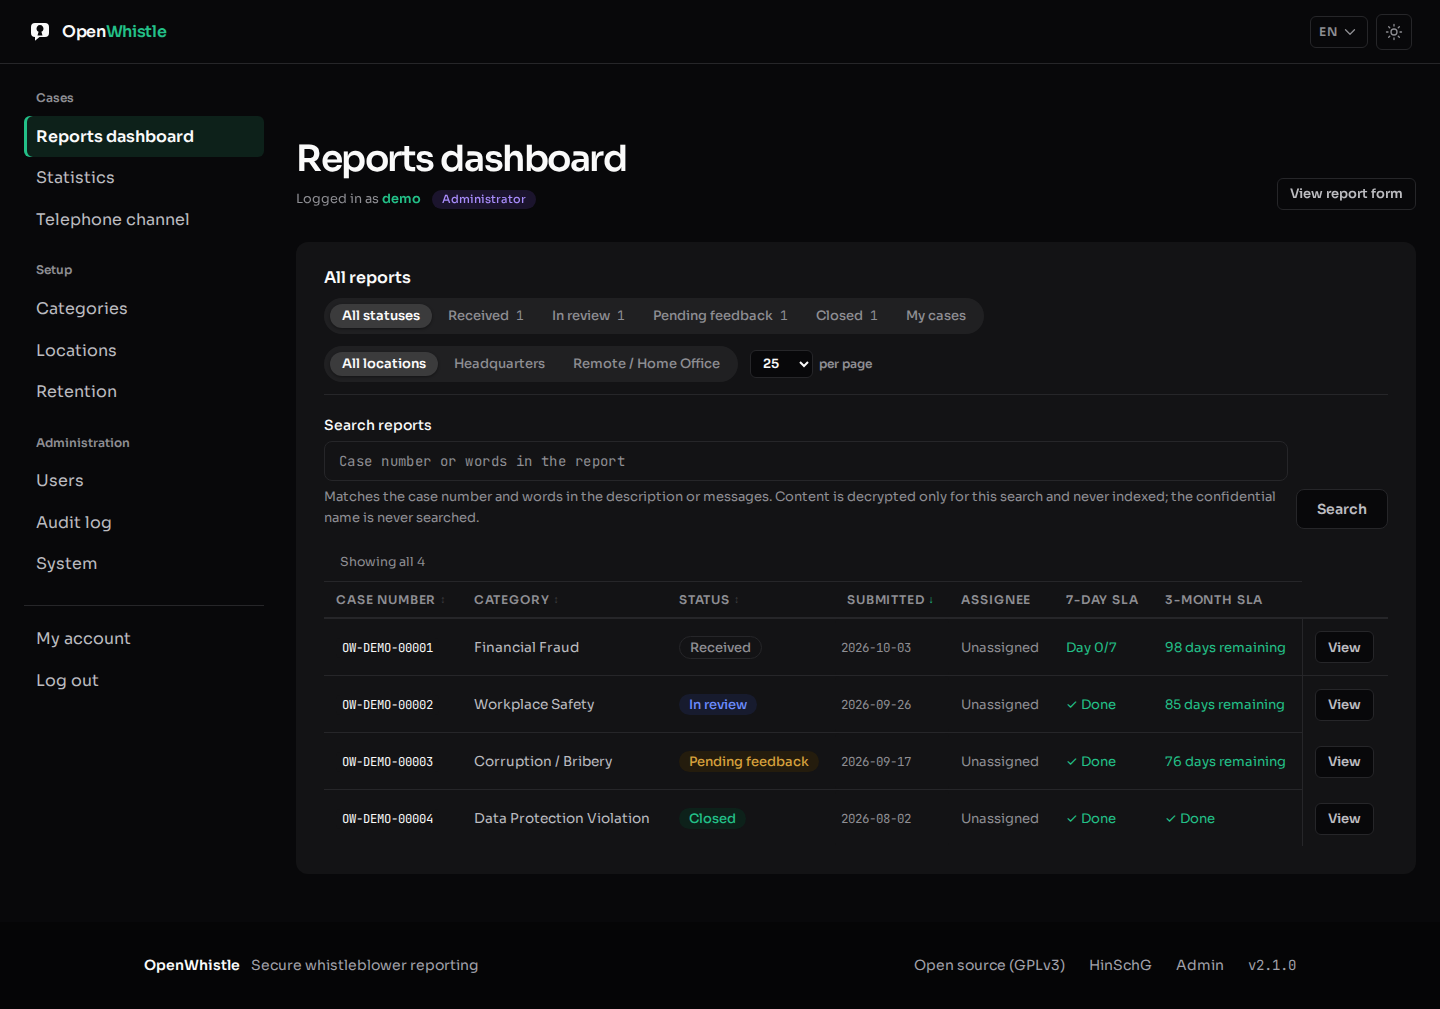
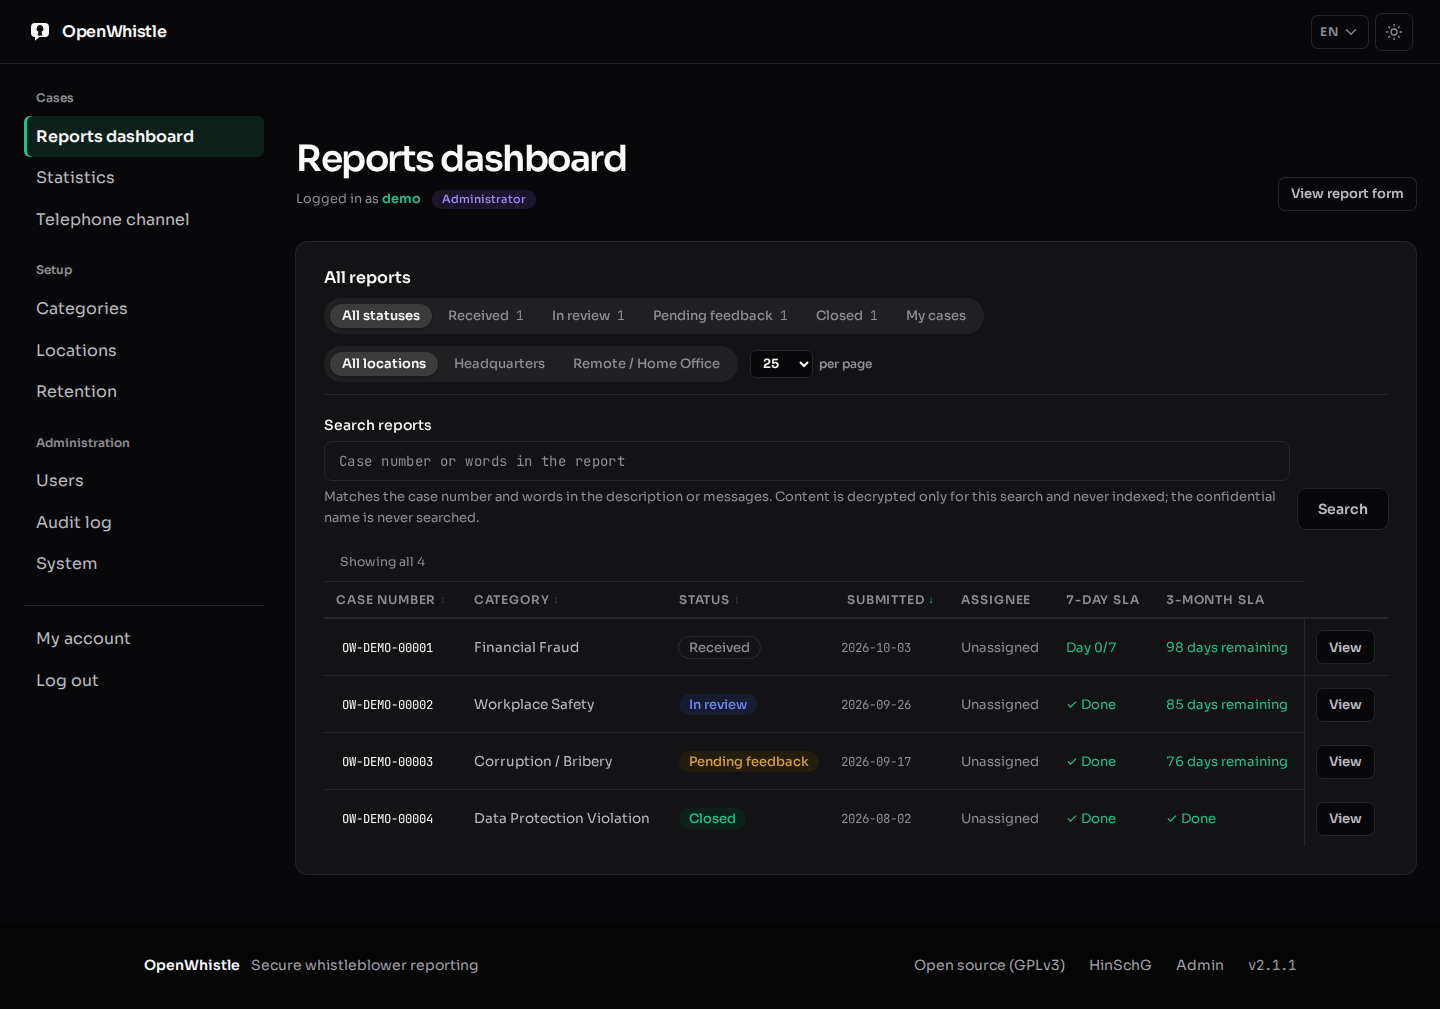
fix(app): the wordmark is OpenWhistle in ink, as on the site
Claude-Session: https://claude.ai/code/session_013NwHs21bPEE5cpr4rDSeZz

diff --git a/tests/test_mark.py b/tests/test_mark.py
@@ -117,3 +117,27 @@ def test_both_heads_link_exactly_the_three_icons() -> None:
             f'<link rel="icon" href="{prefix}favicon.svg" type="image/svg+xml">',
             f'<link rel="apple-touch-icon" href="{prefix}apple-touch-icon.png" sizes="180x180">',
         ], rel
+
+
+_WORDMARK = re.compile(r'<a href="/" class="nav-brand".*?</a>', re.S)
+
+
+async def test_the_app_wordmark_is_one_ink_weight_and_untranslated(client: AsyncClient) -> None:
+    nav = _WORDMARK.search((await client.get("/submit")).text)
+    assert nav
+    assert '<span translate="no">OpenWhistle</span>' in nav[0]
+    assert "<strong" not in nav[0]
+
+
+async def test_a_custom_brand_name_is_the_wordmark(
+    client: AsyncClient, monkeypatch: pytest.MonkeyPatch
+) -> None:
+    monkeypatch.setitem(templates.env.globals["brand"], "name", "Acme Speak-Up")
+    nav = _WORDMARK.search((await client.get("/submit")).text)
+    assert nav and '<span translate="no">Acme Speak-Up</span>' in nav[0]
+    assert "<strong" not in nav[0]
+
+
+def test_the_app_wordmark_has_no_accent_rule() -> None:
+    css = (ROOT / "app/static/css/site.css").read_text(encoding="utf-8")
+    assert ".nav-brand strong" not in css

diff --git a/DESIGN.md b/DESIGN.md
@@ -294,6 +294,7 @@ A speech bubble with a keyhole: one evenodd path on a 24-unit grid, drawn in ink
 - Favicons are the three-file set: ICO (`sizes="32x32"`), SVG switching ink by
   `prefers-color-scheme`, apple-touch.
 - An operator's `brand.logo_url` replaces the mark in the app.
+- Wordmark: OpenWhistle in ink, one weight, `translate="no"`.
 
 ### Buttons
 
